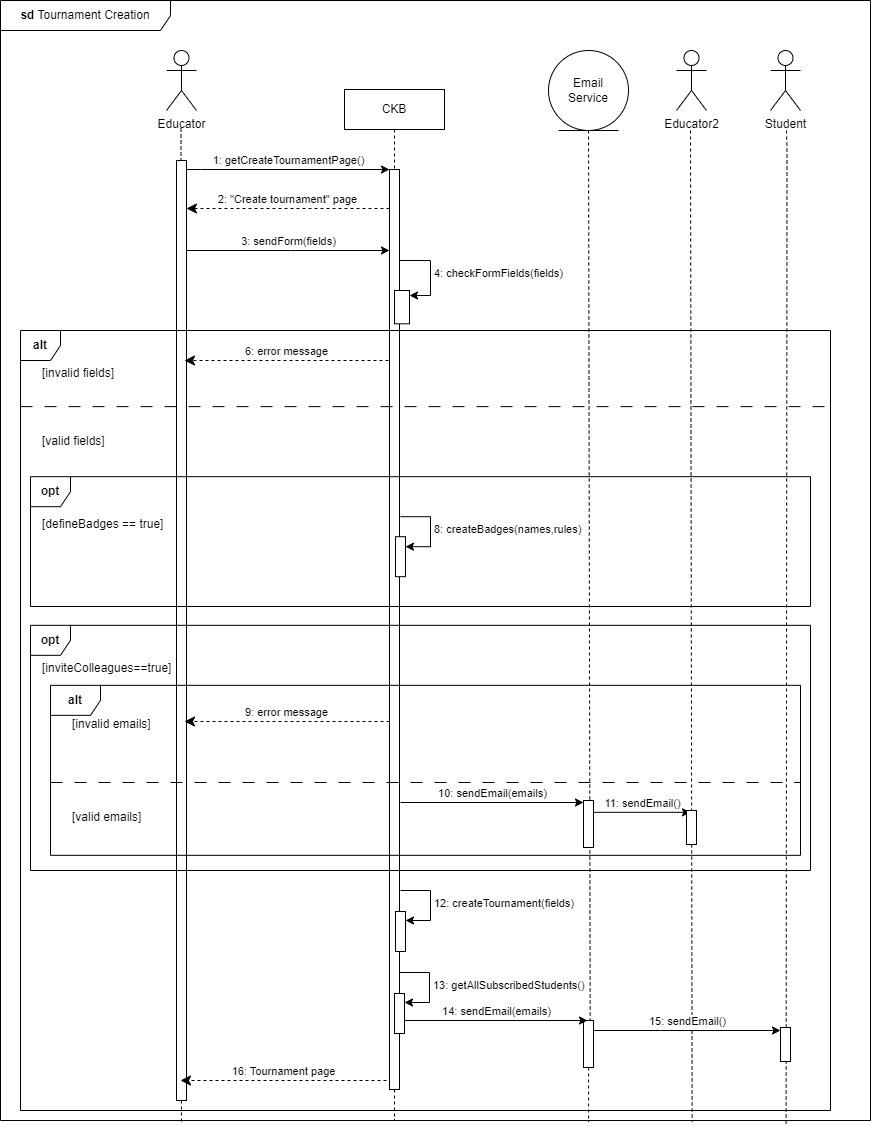
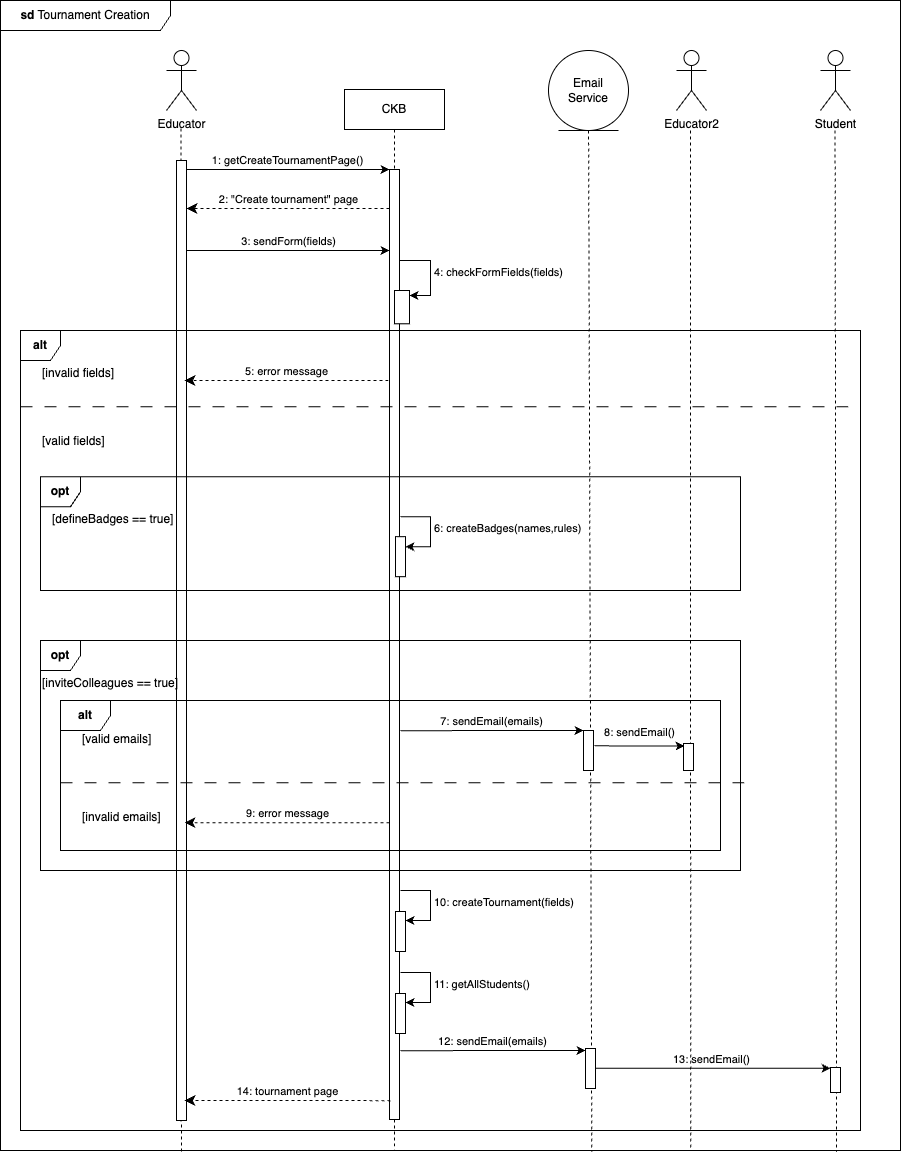
Fix sequence diagrams

diff --git a/RASD/chapters/03_specific_requirements.tex b/RASD/chapters/03_specific_requirements.tex
@@ -165,7 +165,7 @@ network (LTE/3G/4G/5G).
 { % event flow
     \begin{enumerate}
         \item The actor clicks the 'Register' button.
-        \item The actor fills the sign-up form personal information, email and password.
+        \item The actor fills the sign-up form with his personal information, email and password.
         \item The student adds his GitHub username and submits the information.
         \item The system calls GitHub Service API to check if the username is valid.
         \item The GitHub Service sends the response to the system.
@@ -193,8 +193,8 @@ In case of exception the system will notify user with a human-readable message.
 \usecase
 {3}
 {Tournament creation}
-{Educator, Email Service}
-{The actor is already logged in the system.}
+{Educator, Educator2, Student, Email Service}
+{The educator is already logged in the system.}
 {
     \begin{enumerate}
         \item The educator requires the "Create a new tournament" page.
@@ -204,6 +204,7 @@ In case of exception the system will notify user with a human-readable message.
         \item The educator can invite other educators to join the tournament, giving them the possibility to create battles.
         \item The educator clicks the "Confirm" button and submits the form. 
         \item The system sends an email to the invited educators.
+        \item The system sends an email to the students subscribed to the tournament.
     \end{enumerate}
 }
 {The tournament is created and the tournament page is shown.}
@@ -424,8 +425,8 @@ In case of exception the system will notify user with a human-readable message.
 {
     \begin{enumerate}
         \item The educator closes the tournament.
-        \item The system awards badges to the students.
-        \item The system sends an email to the students.
+        \item The system awards badges to eligible students.
+        \item The system sends an email to the students about the conclusion of the tournament.
     \end{enumerate}
 }
 {The tournament is closed.}
@@ -465,7 +466,7 @@ In case of exception the system will notify user with a human-readable message.
 
 \begin{figure}[H]
     \centering
-    \includegraphics[width=0.95\textwidth]{images/seq_diagrams/Login.jpg}
+    \includegraphics[width=0.95\textwidth]{images/seq_diagrams/login.png}
     \caption{Login sequence diagram}
 \end{figure}
 \clearpage

diff --git a/DD/chapters/02_architectural_design.tex b/DD/chapters/02_architectural_design.tex
@@ -155,7 +155,7 @@ The educator inserts their personal information (name, surname, date of birth) a
 \clearpage
 
 \subsection{Login}
-The figure below shows the sequence diagram of the user login. The user fills the form with their email and password and submits it. 
+The figure below shows the sequence diagram of the user login. The user fills the form with his email and password and submits it. 
 The system checks if the credentials are stored and valid, if so the user is logged in, otherwise the system shows an error message.\\
 \begin{figure}[H]
     \centering
